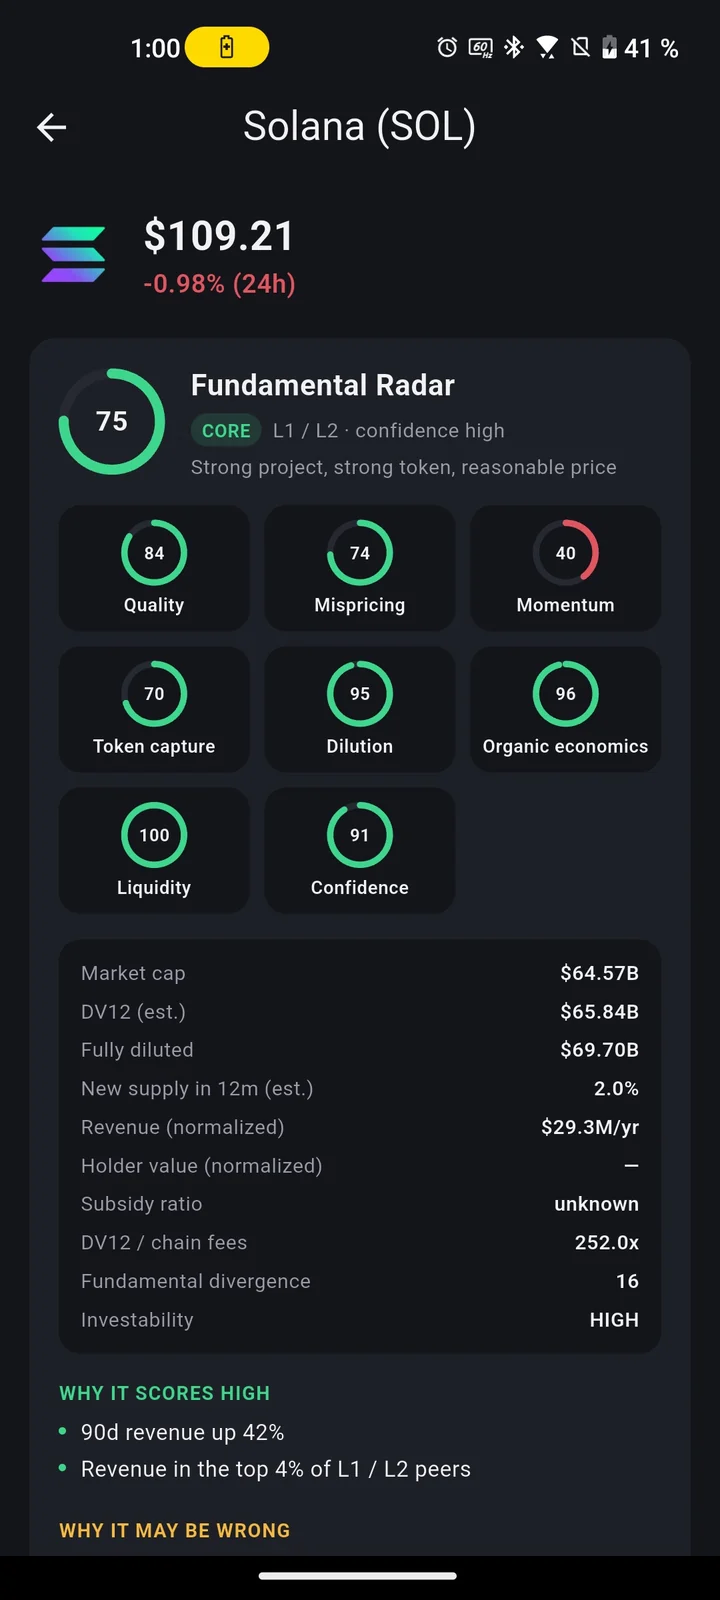
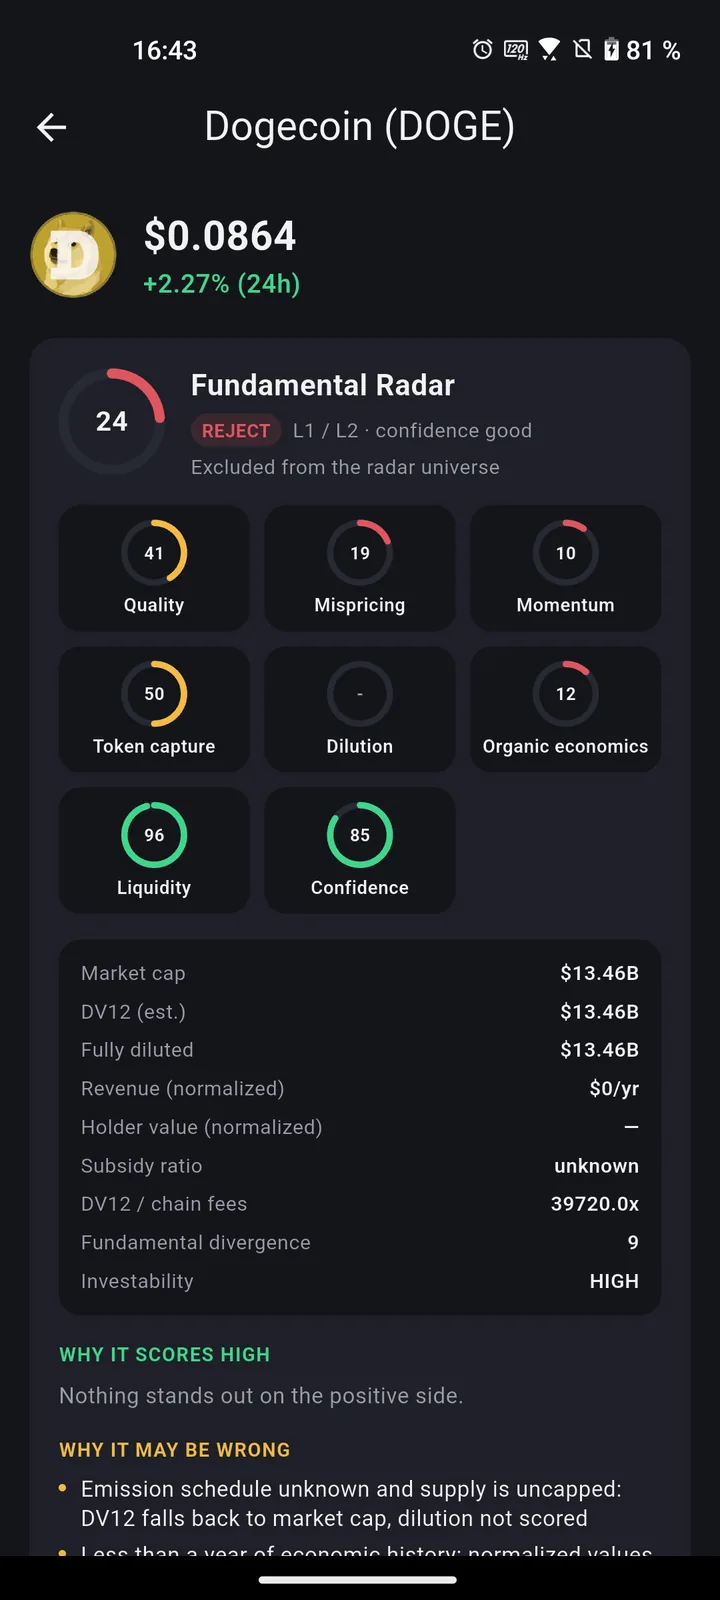
Refresh the five CmA screenshots from the new set

diff --git a/index.html b/index.html
@@ -2244,11 +2244,11 @@
                             <figcaption>The whole market, sorted by market cap, Radar score or 24h change.</figcaption>
                         </figure>
                         <figure class="appblock-shot raised reveal">
-                            <div class="phone-frame"><div class="phone-screen"><div class="shot-cycle"><img src="assets/cma-shot-radar.webp" alt="CmA Fundamental Radar for Solana with its score and the metrics behind it" width="720" height="1600" loading="lazy"><img src="assets/cma-shot-detail.webp" alt="CmA coin detail with a price chart and a plain-language note on what the project is for" width="720" height="1600" loading="lazy"></div></div></div>
+                            <div class="phone-frame"><div class="phone-screen"><div class="shot-cycle"><img src="assets/cma-shot-radar.webp" alt="CmA Fundamental Radar for Dogecoin with its score and the metrics behind it" width="720" height="1600" loading="lazy"><img src="assets/cma-shot-detail.webp" alt="CmA coin detail with a price chart and a plain-language note on what the project is for" width="720" height="1600" loading="lazy"></div></div></div>
                             <figcaption>The Fundamental Radar behind every score, live price history and what the project is actually for.</figcaption>
                         </figure>
                         <figure class="appblock-shot reveal">
-                            <div class="phone-frame"><div class="phone-screen"><div class="shot-cycle"><img src="assets/cma-shot-widget.webp" alt="CmA home-screen widget with live prices for a watchlist of coins" width="720" height="1600" loading="lazy"><img src="assets/cma-shot-widget-2.webp" alt="CmA home-screen widget with the Solana price chart" width="720" height="1600" loading="lazy"></div></div></div>
+                            <div class="phone-frame"><div class="phone-screen"><div class="shot-cycle"><img src="assets/cma-shot-widget.webp" alt="CmA home-screen widget with live prices for a watchlist of coins" width="720" height="1600" loading="lazy"><img src="assets/cma-shot-widget-2.webp" alt="CmA home-screen widget with the Monero price chart" width="720" height="1600" loading="lazy"></div></div></div>
                             <figcaption>Home-screen widgets - a watchlist of prices or one coin's chart.</figcaption>
                         </figure>
                     </div>
